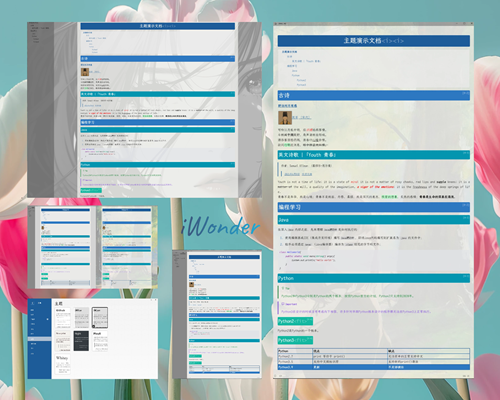
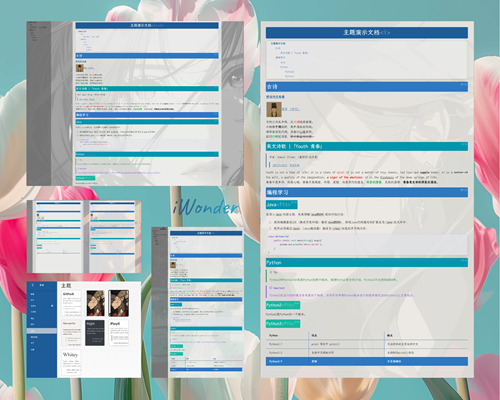
change background image display mode.

diff --git a/iWonder/image-scheme/map/map.css b/iWonder/image-scheme/map/map.css
@@ -1,10 +1,10 @@
 /* TODO: 在此文件中, 配置背景图片路径 与实际代码变量的对应关系. 并创建动画帧, 用于背景图轮播动画 */
  /* NOTE: 指定可以轮播的图片 ------------*/
 :root {
-  --bg-image-0: url("../image/bg-0.png");
+  --bg-image-0: url("../image/bg-0.jpg");
   --bg-image-1: url("../image/bg-1.jpg");
   --bg-image-2: url("../image/bg-2.jpg");
-  --bg-image-3: url("../image/bg-3.jpg");
+  --bg-image-3: url("../image/bg-3.png");
   --bg-image-4: url("../image/bg-4.jpg");
   --bg-image-5: url("../image/bg-5.jpg");
   --bg-image-6: url("../image/bg-6.jpg");

diff --git a/iWonder/image-scheme/carousel.css b/iWonder/image-scheme/carousel.css
@@ -12,5 +12,6 @@
 
   /* NOTE: 默认背景图 当body animation: none; 时展示的图片*/
   /* --bg-image-0 被声明在了 ./map/map.css 中 */
-  --scope-bg-image: var(--bg-image-10);
+  --scope-bg-image: var(--bg-image-2);
 }
+
